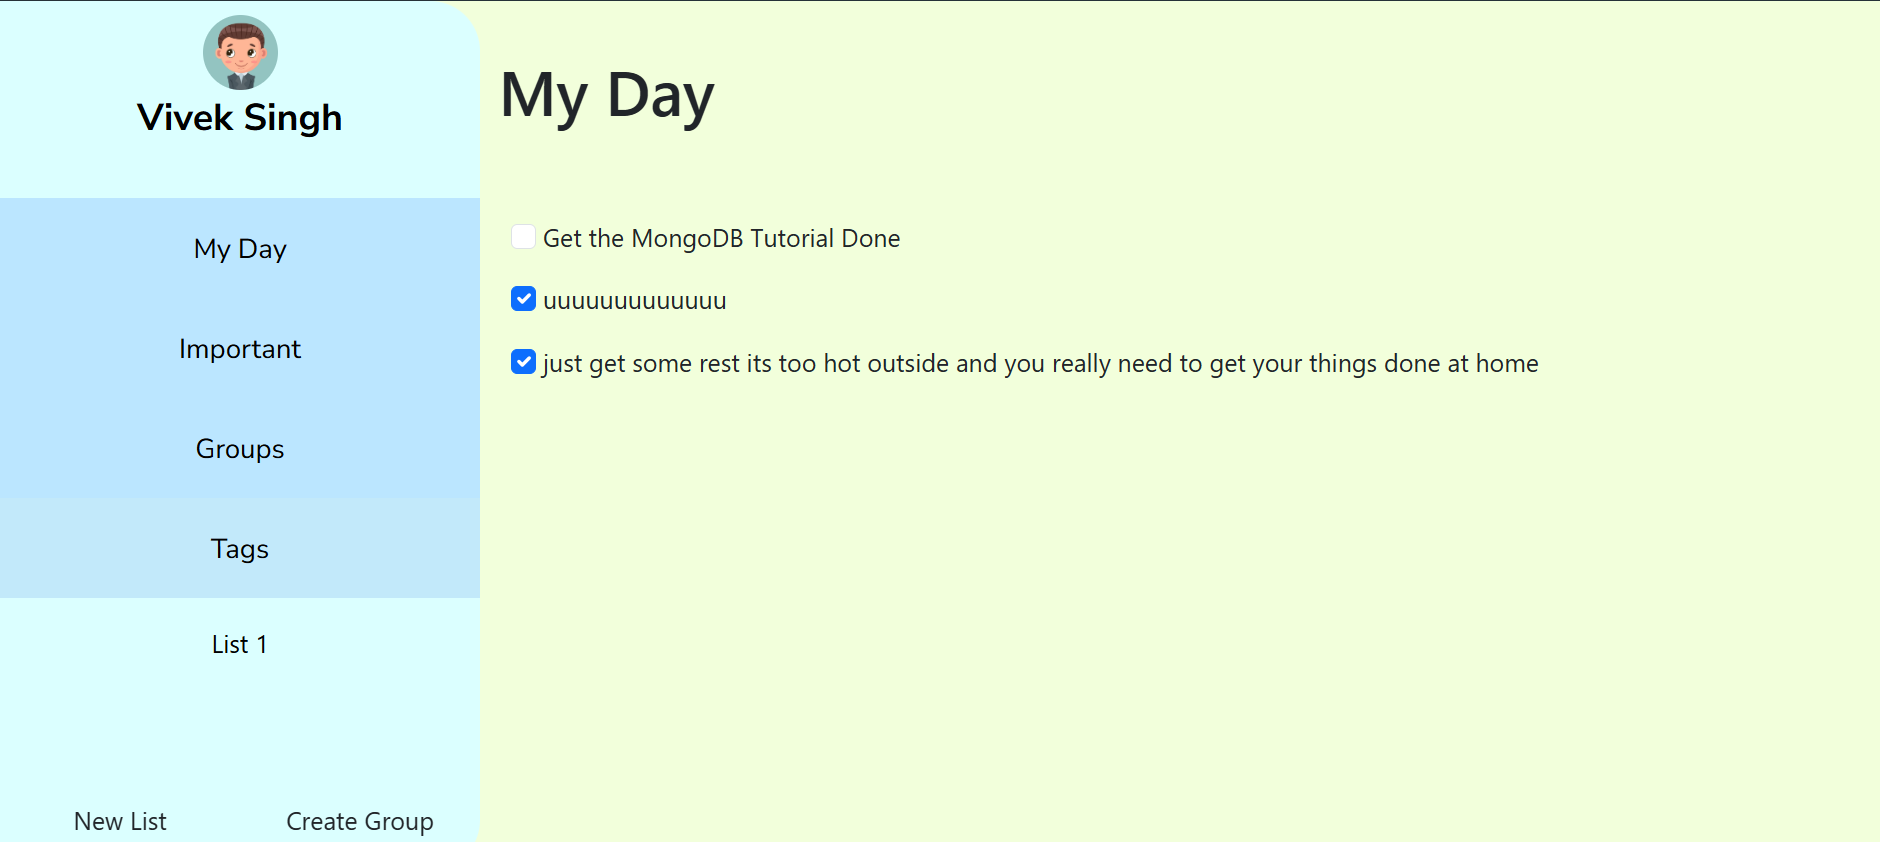
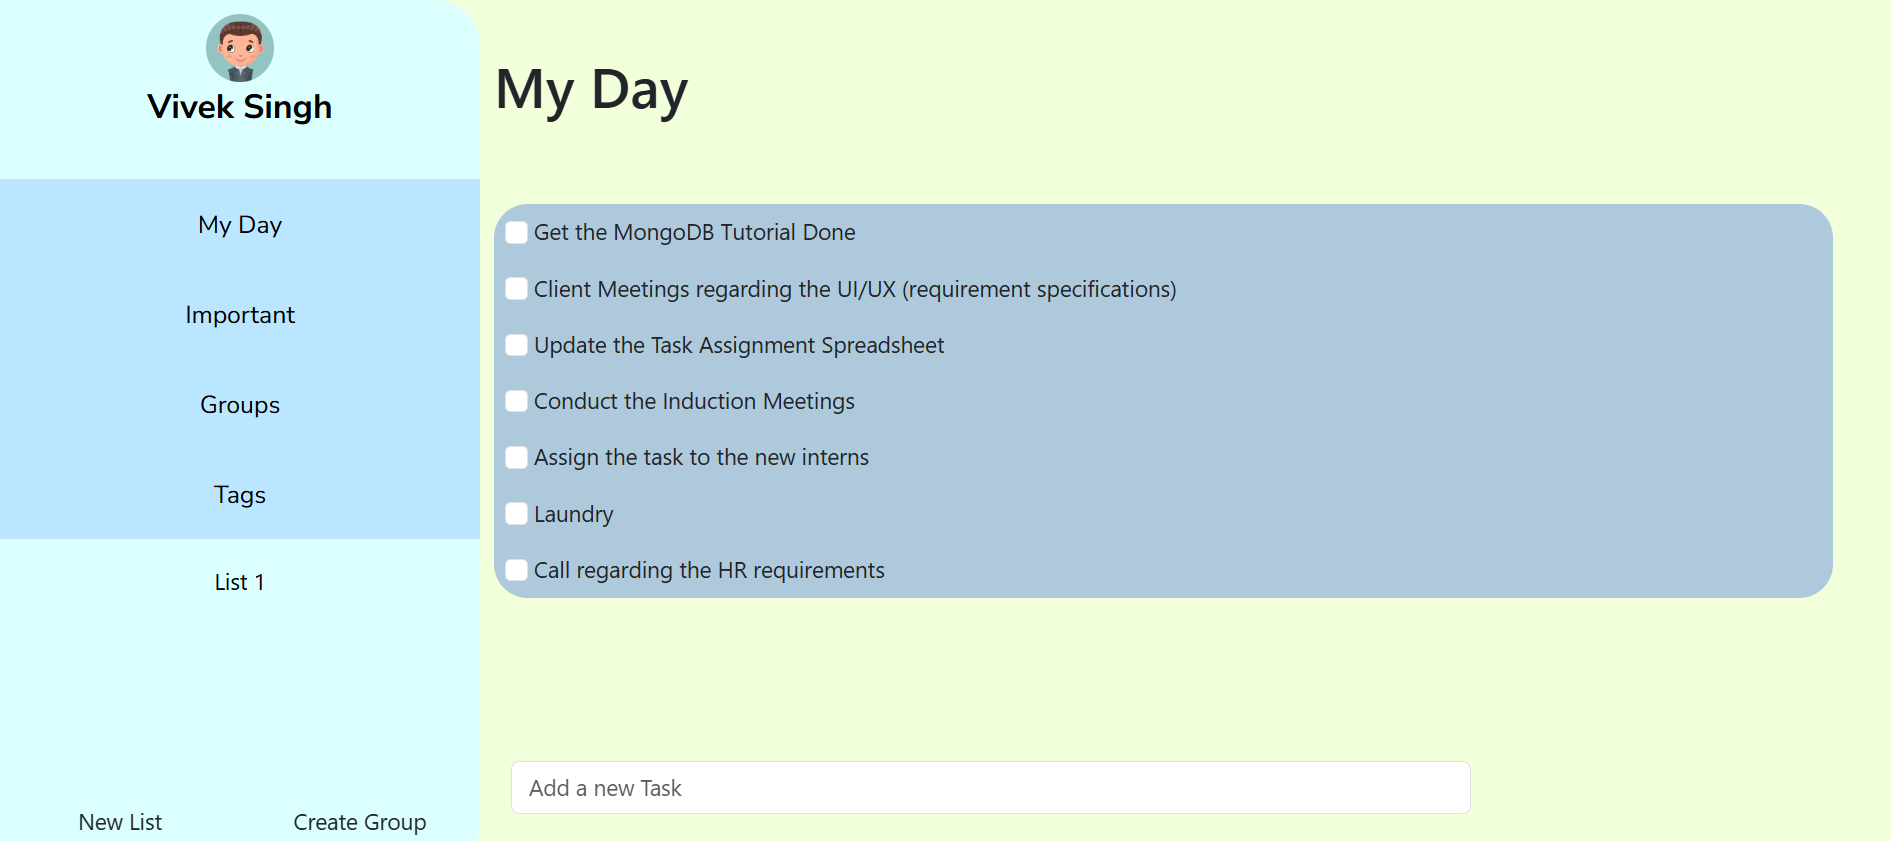
feat adding tasks to todo
Added the functionality to add a new task each time a user opens the list view and modified the UI of the list.ejs present inside the views directory

diff --git a/public/script/list.js b/public/script/list.js
@@ -1,0 +1,31 @@
+console.log('hello you are qwwwwwwwwwwwwwwww')
+$("#add-new-task").focus();
+// $("#add-new-task").on($(selector).keydown(function (e) { 
+    
+// });)
+// $('.form-class').onsubmit(function(event){
+//     event.preventDefault();
+// })
+$(".sub-btn").click(function(ve){
+// console.log(returnAndEmptyInput());
+if(document.getElementById('add-new-task').value!=""){
+fetch('/list',{method:'PUT',
+    headers:{ 'Content-Type': 'application/json'},
+    body:JSON.stringify({
+        "title":returnAndEmptyInput()
+    })
+})
+}
+});
+function returnAndEmptyInput(){
+    const ele=document.querySelector(".add-new-task").value;
+    document.querySelector(".add-new-task").value=''
+    return ele
+}
+// (function (e) { 
+//     if(e.key=='Enter')
+//         console.log($("#add-new-task").text());
+// });
+// function sumbitEvent(){
+//     console.log('bitch you are not working ')
+// }

diff --git a/public/css/list.css b/public/css/list.css
@@ -6,8 +6,25 @@
     text-align:start;
     padding-top:5vh;
     }
+.list-container{
+    display:flex;
+    height:100vh;
+    flex-direction:column;
+ align-content: end;
+}
+.my-day-list::-webkit-scrollbar {
+    display: none;
+  } 
+  /* Hide scrollbar for IE, Edge and Firefox */
 .my-day-list{
+    background-color:rgb(174, 201, 219);
     margin-top:3.5vh;
+    border-radius:30px;
+    scroll-behavior: smooth;
+    max-height:60vh;
+    overflow:auto;
+    -ms-overflow-style: none;  /* IE and Edge */
+    scrollbar-width: none;  /* Firefox */
 }
 .todo-list-items{
     /* margin-top:1vh; */
@@ -32,4 +49,17 @@
     height:50px;
     padding-top:10px;
     cursor: pointer;
+}
+.add-div{
+ /* background-color:red; */
+ position:fixed;
+ bottom:0px;
+ height:10vh;
+ left:relative;
+}
+.add-new-task{
+    width:10vw;
+}
+.add-new-task:focus{
+    transition:all 5000s ease-in-out;
 }

diff --git a/src/features/list/list.repository.js b/src/features/list/list.repository.js
@@ -7,8 +7,9 @@ export default class ListRepository{
         const result= await db.collection('list').find().toArray();
         return result
     }
-    static async add(title,note,date,isImportant,tags){
-        const newItem=new ListModel(title,note,date,isImportant,tags);
+    static async add(title){
+        const date=new Date(Date.now()).toLocaleString();
+        const newItem=new ListModel(title,null,date,false,null);
         const db=await getDB();
         const result=await db.collection('list').insertOne(newItem);
         return result;

diff --git a/src/features/list/list.controller.js b/src/features/list/list.controller.js
@@ -7,8 +7,8 @@ export default class ListController{
         })
     }
     static async add(req,res){
-        const {title,note,date,isImportant,tags}=req.body;
-        const result=ListRepository.add(title,note,date,isImportant,tags);
+        const {title}=req.body;
+        const result=ListRepository.add(title);
         if(!result)
             return res.render('error',{content:'A bad Request is being requested from the server'});
          await ListController.get(req,res);// the updated items will be displayed easily
